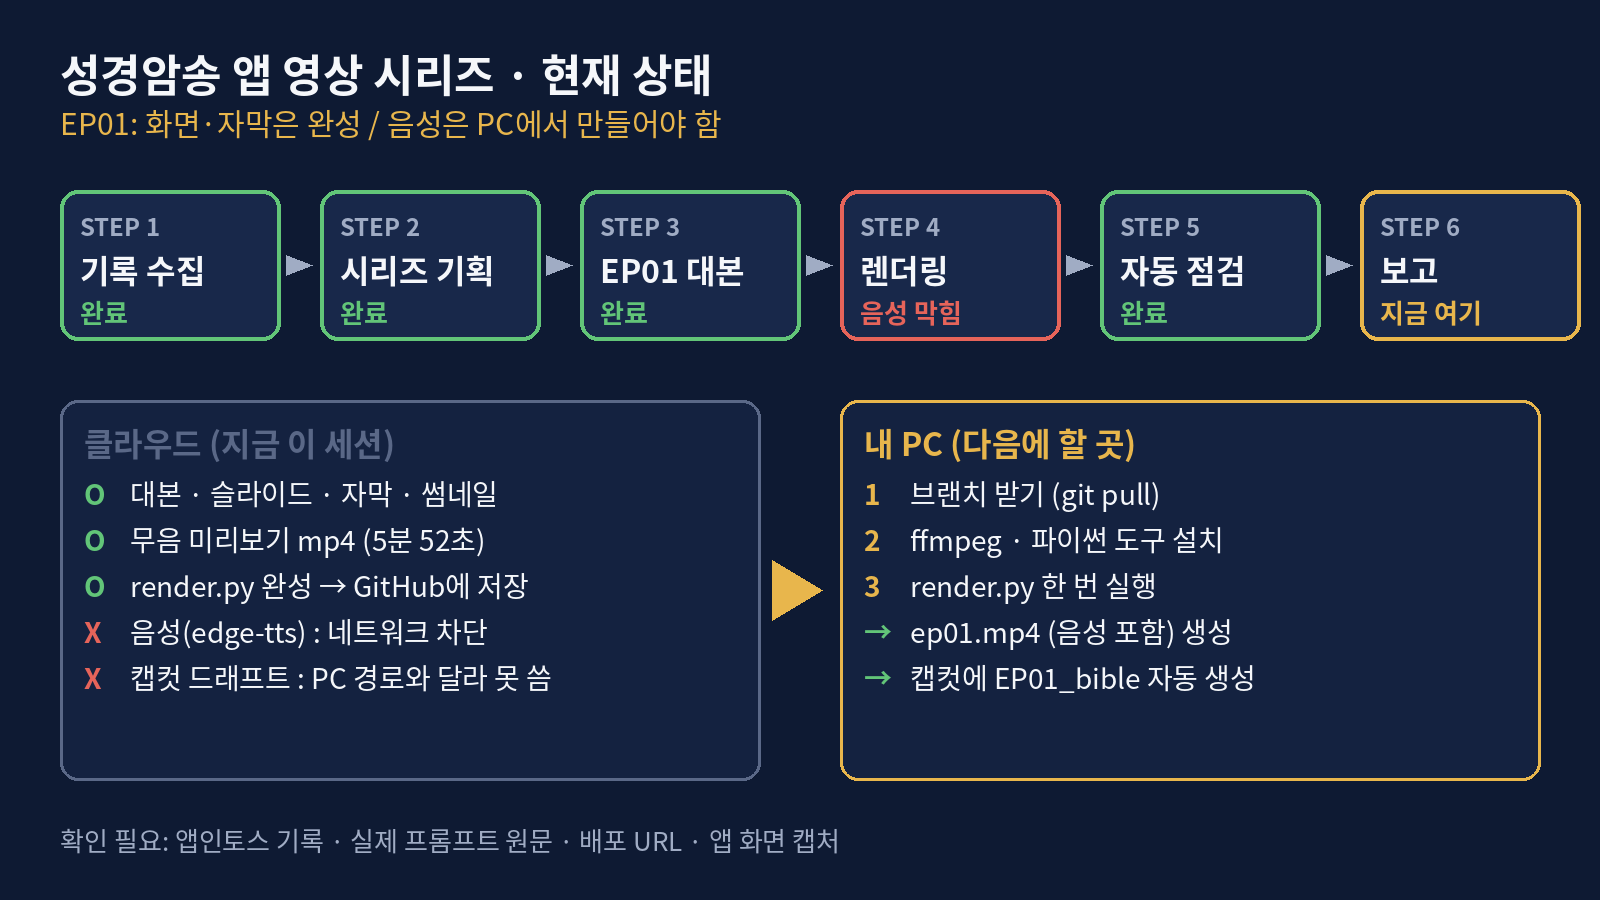
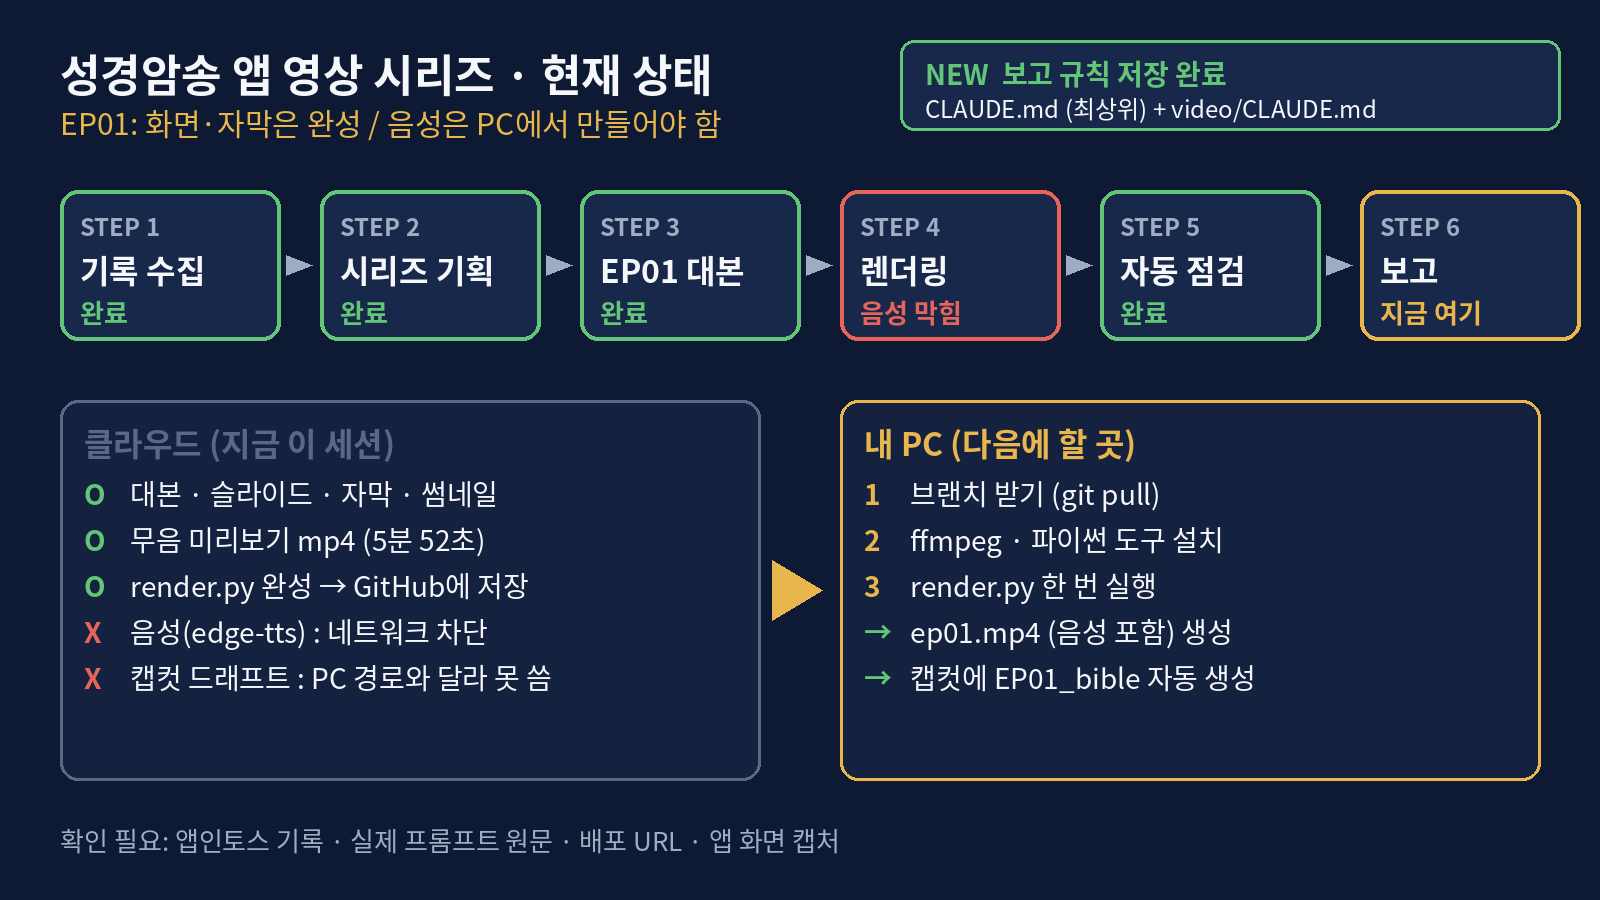
Add root CLAUDE.md with reporting rule
Claude-Session: https://claude.ai/code/session_01RLFPK5ZDzBR9Xd3R5M34oR

Changed region(s): [[0.5625, 0.0311, 0.9688, 0.1556]]

diff --git a/CLAUDE.md b/CLAUDE.md
@@ -1,0 +1,15 @@
+# CLAUDE.md
+
+## 작업 보고 규칙 (모든 작업 공통)
+매 응답의 마지막에 아래 순서로 보고한다. 초보자도 한눈에 이해되도록 쉬운 말로 쓴다.
+
+1. **한 줄 결론**: 지금 무엇이 되고 무엇이 안 되는지
+2. **한 일**: 개조식 3~7줄
+3. **현재 상태**: 개조식. 완료 / 막힘 / 대기로 구분
+4. **다이어그램**: 전체 흐름에서 지금 위치를 텍스트 도식으로 표시
+5. **이미지**: 같은 내용을 PNG 한 장으로 만들어 첨부 (`video/status/status_YYYYMMDD.png`, 1600x900)
+6. **다음 행동**: 사용자가 바로 할 수 있는 것 1~3개
+
+## 폴더 안내
+- 앱 소스: `src/`, 명세: `SPEC.md`
+- 강의 영상 작업: `video/` (세부 규칙은 `video/CLAUDE.md`)
